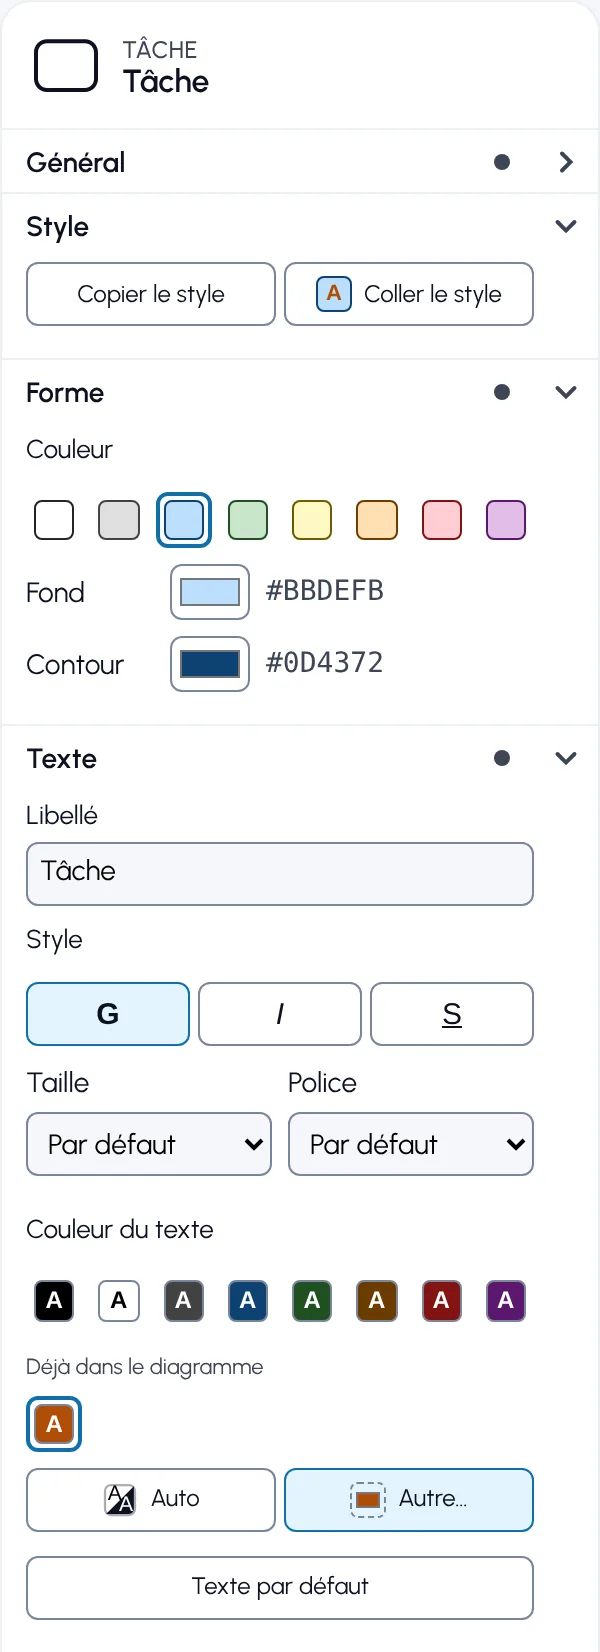
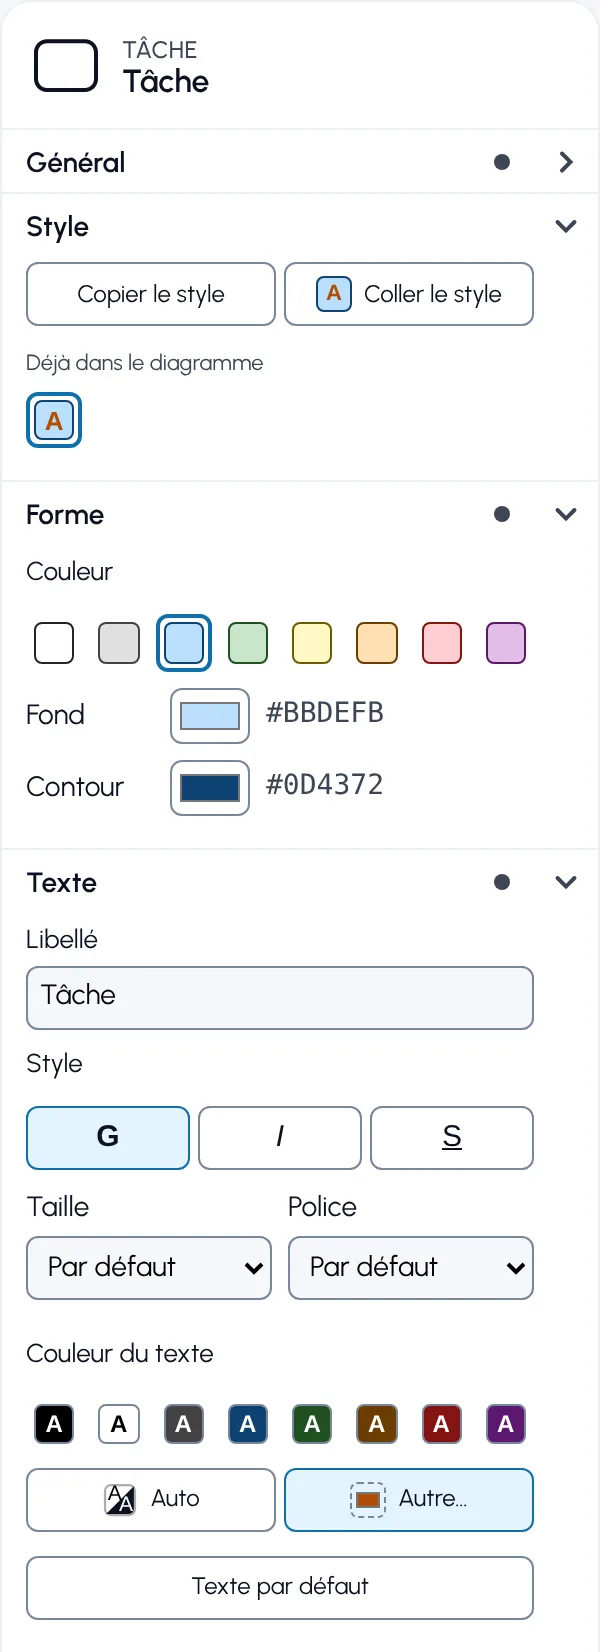
List the styles used in the diagram in the Style group
Every style set by hand (shape colors and text formatting together) is
listed on one row, most recent first, and applied in one click. This
replaces the separate custom color rows of the Shape and Text groups.

diff --git a/src/appearance-panel.js b/src/appearance-panel.js
@@ -56,46 +56,7 @@ function hasAppearance(element) {
 // pinceau du menu contextuel.
 const SHAPE_ROW = [0, 1, 2, 6, 9, 11, 13, 15].map((i) => COLORS[i])
 const TEXT_ROW = [0, 1, 2, 3, 7, 12, 14, 16].map((i) => TEXT_COLORS[i])
-const MAX_USED = 16
-
-const pairKey = (fill, stroke) => `${upper(fill)}|${upper(stroke)}`
-const SHAPE_ROW_KEYS = new Set(SHAPE_ROW.map((c) => pairKey(c.fill, c.stroke)))
 const TEXT_ROW_KEYS = new Set(TEXT_ROW.map((c) => c.color))
-
-// Couleurs déjà employées dans le diagramme et absentes de la ligne proposée :
-// une couleur personnalisée choisie sur un élément se reprend ainsi d'un clic
-// sur un autre. Rien n'est stocké à part : la liste se lit dans le diagramme.
-function usedShapeColors(elementRegistry) {
-  const seen = new Map()
-  for (const el of elementRegistry.getAll()) {
-    if (el.type === 'label' || !el.di) continue
-    const fill = fillOf(el)
-    const stroke = strokeOf(el)
-    if (!fill && !stroke) continue
-    const key = pairKey(fill, stroke)
-    if (!SHAPE_ROW_KEYS.has(key) && !seen.has(key)) seen.set(key, { fill, stroke })
-    if (seen.size >= MAX_USED) break
-  }
-  return [...seen.values()]
-}
-function usedTextColors(elementRegistry) {
-  const seen = new Set()
-  for (const el of elementRegistry.getAll()) {
-    if (el.type === 'label' || !el.di) continue
-    const color = upper(textColorOf(el))
-    if (color && !TEXT_ROW_KEYS.has(color)) seen.add(color)
-    if (seen.size >= MAX_USED) break
-  }
-  return [...seen]
-}
-
-function UsedRow({ label, children }) {
-  if (!children.length) return null
-  return html`<div class="appearance-used">
-    <div class="appearance-sublabel">${label}</div>
-    <div class="appearance-swatches" role="group" aria-label=${label}>${children}</div>
-  </div>`
-}
 
 // ── Pastille ────────────────────────────────────────────────────────────────
 
@@ -164,9 +125,16 @@ function readCopied() {
   try { return JSON.parse(localStorage.getItem(STYLE_KEY)) || null } catch { return null }
 }
 
-function copyStyle(element) {
+// Style complet d'un élément : couleurs de la forme, police et couleur du texte.
+function styleOf(element) {
   const target = targetOf(element)
-  copied = { fill: fillOf(target) || null, stroke: strokeOf(target) || null, font: fontOf(target), textColor: upper(textColorOf(target)) || null }
+  return { fill: fillOf(target) || null, stroke: strokeOf(target) || null, font: fontOf(target), textColor: upper(textColorOf(target)) || null }
+}
+const styleKey = (style) => JSON.stringify([style.fill, style.stroke, style.textColor, style.font && Object.keys(style.font).sort().map((k) => [k, style.font[k]])])
+const isDefaultStyle = (style) => !style.fill && !style.stroke && !style.font && !style.textColor
+
+function copyStyle(element) {
+  copied = styleOf(element)
   try { localStorage.setItem(STYLE_KEY, JSON.stringify(copied)) } catch { /* stockage indisponible : le style vaut pour cette page */ }
 }
 
@@ -187,9 +155,75 @@ function registerPasteStyle(commandStack, modeling) {
 }
 registerPasteStyle.$inject = ['commandStack', 'modeling']
 
-function pasteStyle(commandStack, elements) {
+function pasteStyle(commandStack, elements, style = copied) {
   const targets = pasteTargets(elements)
-  if (copied && targets.length) commandStack.execute('appearance.pasteStyle', { elements: targets, style: copied })
+  if (style && targets.length) commandStack.execute('appearance.pasteStyle', { elements: targets, style })
+}
+
+// ── Styles du diagramme ─────────────────────────────────────────────────────
+// Chaque style posé à la main sur un élément est repris automatiquement dans
+// une ligne du groupe Style : un clic l'applique à l'élément sélectionné. La
+// liste se lit dans le diagramme (elle suit donc le fichier), les styles
+// modifiés le plus récemment en tête.
+
+const USED_MAX = 8
+const recent = new Map()
+let tick = 0
+
+function trackRecentStyles(eventBus) {
+  eventBus.on('elements.changed', ({ elements }) => {
+    for (const el of elements) {
+      if (el.type === 'label' || !hasAppearance(el)) continue
+      const style = styleOf(el)
+      if (!isDefaultStyle(style)) recent.set(styleKey(style), ++tick)
+    }
+  })
+  eventBus.on('import.done', () => recent.clear())
+}
+trackRecentStyles.$inject = ['eventBus']
+
+function usedStyles(elementRegistry) {
+  const seen = new Map()
+  elementRegistry.forEach((el) => {
+    if (el.type === 'label' || !hasAppearance(el)) return
+    const style = styleOf(el)
+    if (isDefaultStyle(style)) return
+    const key = styleKey(style)
+    if (!seen.has(key)) seen.set(key, { key, style, order: seen.size })
+  })
+  return [...seen.values()]
+    .sort((a, b) => (recent.get(b.key) || 0) - (recent.get(a.key) || 0) || a.order - b.order)
+    .slice(0, USED_MAX)
+}
+
+function describeStyle(style) {
+  const font = style.font || {}
+  const parts = [
+    style.fill && `${T('Fill', 'Fond')} ${style.fill}`,
+    style.stroke && `${T('Stroke', 'Contour')} ${style.stroke}`,
+    font.name, font.size && `${font.size}`,
+    font.isBold && T('bold', 'gras'), font.isItalic && T('italic', 'italique'), font.isUnderline && T('underline', 'souligné'),
+    style.textColor && `${T('Text', 'Texte')} ${style.textColor}`,
+  ]
+  return parts.filter(Boolean).join(', ')
+}
+
+function UsedStyles({ element }) {
+  const commandStack = useService('commandStack')
+  const elementRegistry = useService('elementRegistry')
+  const styles = usedStyles(elementRegistry)
+  if (!styles.length) return null
+  const current = styleKey(styleOf(element))
+  const label = T('Used in this diagram', 'Déjà dans le diagramme')
+  return html`<div class="appearance-used">
+    <div class="appearance-sublabel">${label}</div>
+    <div class="appearance-swatches" role="group" aria-label=${label}>
+      ${styles.map(({ key, style }) => html`<button type="button" key=${key}
+        class=${'appearance-swatch' + (key === current ? ' is-active' : '')}
+        title=${describeStyle(style)} aria-label=${describeStyle(style)} aria-pressed=${key === current ? 'true' : 'false'}
+        onClick=${() => pasteStyle(commandStack, [element], style)}><${StylePreview} style=${style} /></button>`)}
+    </div>
+  </div>`
 }
 
 // Aperçu du style copié : la forme et un « A » dans la couleur et la police du texte.
@@ -216,6 +250,7 @@ function CopyPasteEntry({ element, id }) {
         ${copied ? html`<${StylePreview} style=${copied} />` : null}${T('Paste style', 'Coller le style')}
       </button>
     </div>
+    <${UsedStyles} element=${element} />
   </div>`
 }
 
@@ -225,7 +260,6 @@ const ROLLER_ICON = `<svg xmlns="http://www.w3.org/2000/svg" width="22" height="
 
 function ShapeColorEntry({ element, id }) {
   const modeling = useService('modeling')
-  const elementRegistry = useService('elementRegistry')
   const target = targetOf(element)
   const edge = isConnection(target)
   const fill = fillOf(target)
@@ -237,10 +271,6 @@ function ShapeColorEntry({ element, id }) {
   return html`<div class="bio-properties-panel-entry appearance-entry" data-entry-id=${id}>
     <div class="bio-properties-panel-label">${T('Color', 'Couleur')}</div>
     <div class="appearance-swatches" role="group" aria-label=${T('Shape color', 'Couleur de la forme')}>${swatches}</div>
-    <${UsedRow} label=${T('Used in this diagram', 'Déjà dans le diagramme')}>${usedShapeColors(elementRegistry).map((c) => html`<${Swatch}
-      key=${pairKey(c.fill, c.stroke)} title=${[c.fill, c.stroke].filter(Boolean).join(' / ')} fill=${c.fill} stroke=${c.stroke}
-      active=${c.fill === fill && c.stroke === stroke}
-      onClick=${() => set(edge ? { stroke: c.stroke } : { fill: c.fill, stroke: c.stroke })} />`)}<//>
     ${edge ? null : html`<${ColorField} id=${id + '-fill'} label=${T('Fill', 'Fond')} value=${fill} fallback="#FFFFFF" onChange=${(v) => set({ fill: v })} />`}
     <${ColorField} id=${id + '-stroke'} label=${T('Stroke', 'Contour')} value=${stroke} fallback="#22242A" onChange=${(v) => set({ stroke: v })} />
   </div>`
@@ -250,7 +280,6 @@ function ShapeColorEntry({ element, id }) {
 
 function TextStyleEntry({ element, id }) {
   const commandStack = useService('commandStack')
-  const elementRegistry = useService('elementRegistry')
   const target = targetOf(element)
   const elements = [target]
   const font = fontOf(target) || {}
@@ -287,9 +316,6 @@ function TextStyleEntry({ element, id }) {
       ${TEXT_ROW.map((c, i) => html`<${Swatch} key=${i} title=${c.label} fill=${c.color} stroke="var(--line-strong)" text=${readableOn(c.color)}
         active=${color === c.color} onClick=${() => applyTextColor(commandStack, elements, c.color)} />`)}
     </div>
-    <${UsedRow} label=${T('Used in this diagram', 'Déjà dans le diagramme')}>${usedTextColors(elementRegistry).map((c) => html`<${Swatch}
-      key=${c} title=${c} fill=${c} stroke="var(--line-strong)" text=${readableOn(c)}
-      active=${color === c} onClick=${() => applyTextColor(commandStack, elements, c)} />`)}<//>
     <div class="appearance-row">
       <button type="button" class="appearance-button" title=${T('Black or white, whichever reads best on the fill', 'Noir ou blanc, le plus lisible sur le fond')}
         onClick=${() => applyTextColor(commandStack, elements, 'auto')}>
@@ -398,7 +424,7 @@ AppearanceContextPad.prototype.getContextPadEntries = function (element) {
 }
 
 export const AppearancePanelModule = {
-  __init__: ['appearancePropertiesProvider', 'appearanceContextPad', registerPasteStyle],
+  __init__: ['appearancePropertiesProvider', 'appearanceContextPad', registerPasteStyle, trackRecentStyles],
   appearancePropertiesProvider: ['type', AppearancePropertiesProvider],
   appearanceContextPad: ['type', AppearanceContextPad],
 }

diff --git a/aide.html b/aide.html
@@ -176,7 +176,7 @@
         <ul>
           <li><span class="ui">Forme</span> : une ligne de couleurs toutes prêtes, puis un <span class="ui">Fond</span> et un <span class="ui">Contour</span> pour régler l'un sans l'autre (le carré ouvre le sélecteur de couleur du système). Un flux n'a qu'un contour.</li>
           <li><span class="ui">Texte</span> : le <span class="ui">Libellé</span>, gras, italique, souligné, taille, police, une ligne de couleurs du texte, <span class="ui">Auto</span>, <span class="ui">Autre…</span> et <span class="ui">Texte par défaut</span>.</li>
-          <li><span class="ui">Déjà dans le diagramme</span> reprend les couleurs personnalisées déjà posées sur d'autres éléments : un clic redonne la même teinte.</li>
+          <li><span class="ui">Déjà dans le diagramme</span>, dans le groupe <span class="ui">Style</span>, rassemble chaque style réglé à la main dans le diagramme (couleurs et mise en forme du texte ensemble), le plus récent en tête, sur une ligne. Un clic l'applique à l'élément sélectionné.</li>
           <li><span class="ui">Copier le style</span>, dans le groupe <span class="ui">Style</span> placé avant les deux autres, retient le fond, le contour, la police et la couleur du texte de l'élément. <span class="ui">Coller le style</span> les applique à un autre élément, avec un aperçu du style copié. Pour l'appliquer à plusieurs éléments d'un coup, sélectionnez-les et utilisez le rouleau <span class="ui">Coller le style</span> du menu contextuel. Le navigateur garde le style copié, même d'un diagramme à l'autre.</li>
         </ul>
         <p>Chaque réglage s'annule par <kbd>Ctrl</kbd>+<kbd>Z</kbd>.</p>

diff --git a/help.html b/help.html
@@ -176,7 +176,7 @@
         <ul>
           <li><span class="ui">Shape</span>: a row of ready-made colors, then a <span class="ui">Fill</span> and a <span class="ui">Stroke</span> to set one without the other (the square opens your system's color picker). A flow only has a stroke.</li>
           <li><span class="ui">Text</span>: the <span class="ui">Label</span>, bold, italic, underline, size, font, a row of text colors, <span class="ui">Auto</span>, <span class="ui">Custom…</span> and <span class="ui">Default text</span>.</li>
-          <li><span class="ui">Used in this diagram</span> lists the custom colors already applied to other elements: one click reuses the same shade.</li>
+          <li><span class="ui">Used in this diagram</span>, in the <span class="ui">Style</span> group, collects every style set by hand in the diagram (colors and text formatting together), the most recent first, on one row. One click applies it to the selected element.</li>
           <li><span class="ui">Copy style</span>, in the <span class="ui">Style</span> group above the other two, remembers the element's fill, stroke, font and text color. <span class="ui">Paste style</span> applies them to another element, with a preview of the copied style. To apply it to several elements at once, select them and use the <span class="ui">Paste style</span> roller of the context menu. The browser keeps the copied style, even from one diagram to another.</li>
         </ul>
         <p>Each change is undone with <kbd>Ctrl</kbd>+<kbd>Z</kbd>.</p>

diff --git a/src/theme/leylines.css b/src/theme/leylines.css
@@ -663,6 +663,7 @@ body #chat-input { flex: 1; min-height: 72px; padding-right: 32px; overflow-y: h
   display: inline-flex; align-items: center; justify-content: center; width: 18px; height: 18px; flex-shrink: 0;
   border: 1.5px solid; border-radius: 4px; box-sizing: border-box; font-size: 11px; line-height: 1;
 }
+#properties-panel .appearance-swatch .appearance-style-preview { width: 100%; height: 100%; font-size: 13px; }
 #properties-panel .appearance-reset { margin-top: var(--space-1, 4px); }
 
 /* ── Menu « Texte » (src/label-style.js) ─────────────────────────────── */
